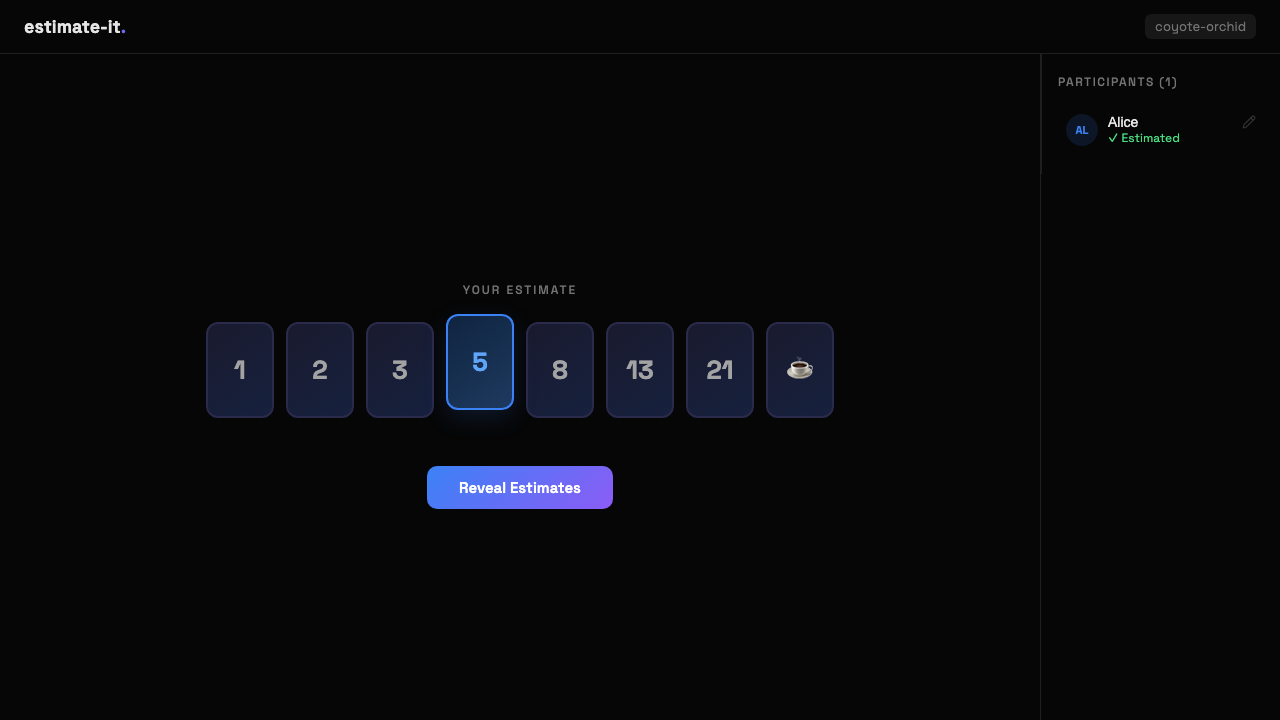
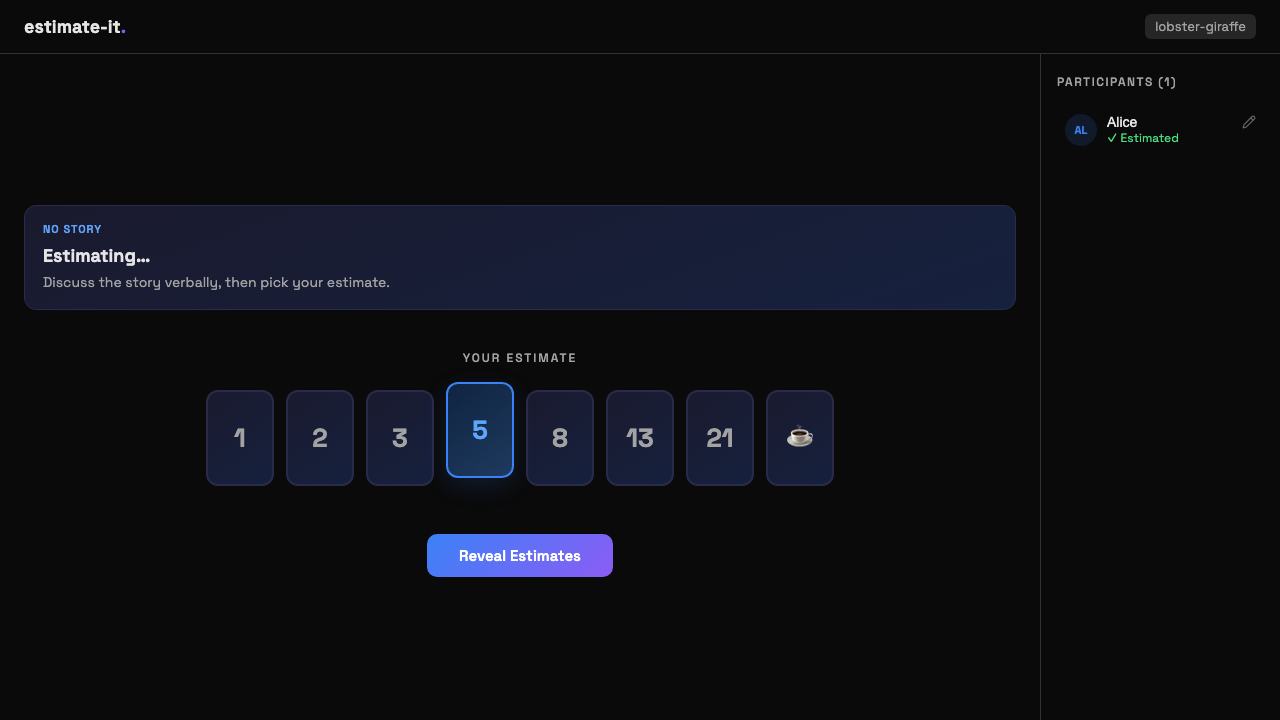
test: add VRT snapshots for story spotlight and session summary
Adds story-context.spec.ts with two tests:
- "story spotlight active": covers the StorySpotlight in "Now estimating"
  state after the activate cycle (null-round reveal → Next Story).
- "session summary": covers the SessionSummary component after completing
  all stories; uses a delete-workaround to trigger sessionComplete because
  the "Next Story" button is gated on hasNextStory (pending stories), so
  the last story's reveal cannot currently reach session complete via the
  normal path (see in-code BUG REPORT comment in the test).

Also regenerates the room-selected-darwin.png baseline, which drifted by
~3% due to the new StoryList/AddStory sidebar added in commit 12529cd.

diff --git a/test/vrt/story-context.spec.ts b/test/vrt/story-context.spec.ts
@@ -1,0 +1,140 @@
+import { test, expect } from "@playwright/test";
+
+test.use({ reducedMotion: "reduce" });
+
+/**
+ * Creates a room, adds a story, and runs the activate cycle so that the
+ * first pending story becomes active (status "active").
+ *
+ * Activate cycle: because there is no active story initially, the Reveal
+ * Estimates call marks the voting round as revealed with story_id=0 (no story
+ * active), then "Next Story" promotes the first pending story to "active".
+ */
+async function createRoomWithActiveStory(
+  page: import("@playwright/test").Page,
+  storyTitle: string
+) {
+  await page.goto("/");
+  await page.getByPlaceholder("John Doe").first().fill("Alice");
+  await page.getByRole("button", { name: "Create Room" }).click();
+  await page.waitForURL(/\/room\//);
+
+  // Add the story via the sidebar form
+  await page.getByRole("button", { name: "+ Add Story" }).click();
+  await page.getByLabel("Story Title").fill(storyTitle);
+  await page.getByRole("button", { name: "Add", exact: true }).click();
+
+  // Activate the first pending story via the reveal→next cycle.
+  // Without an active story the "Reveal Estimates" vote round uses story_id=0,
+  // but "Next Story" still promotes the first pending story to active.
+  await page.getByRole("button", { name: "5" }).click();
+  await page.getByRole("button", { name: "Reveal Estimates" }).click();
+  await expect(page.getByRole("button", { name: "Next Story" })).toBeVisible();
+  await page.getByRole("button", { name: "Next Story" }).click();
+}
+
+test("story spotlight active", async ({ page }) => {
+  await createRoomWithActiveStory(page, "Add OAuth login");
+
+  // The spotlight should now show "Now estimating" with the story title
+  await expect(page.getByText("Now estimating")).toBeVisible();
+  // Use the spotlight panel title element to avoid strict-mode collision with
+  // the story-list entry that also shows the same text.
+  await expect(
+    page.locator("[class*='_panel_']").getByText("Add OAuth login")
+  ).toBeVisible();
+
+  await expect(page).toHaveScreenshot("story-spotlight.png");
+});
+
+test("session summary", async ({ page }) => {
+  // Set up: two stories.
+  // Story 1 will be fully completed (voted → revealed → final estimate → Next Story → done).
+  // Story 2 will be voted and revealed as the last story. At that point the
+  // client's revealed state is true and story 2 is still tracked as "active"
+  // client-side (the server-side "revealed" broadcast does not update story
+  // status in the client store).
+  //
+  // NOTE: The "Next Story" button is only rendered when hasNextStory is true
+  // (i.e. a pending story exists). For the last story there is no "Next Story"
+  // button, so we trigger the session summary via a different path: after
+  // revealing story 2 we use "Next Story" (story 2 is the FIRST story we
+  // activate, story 1 is still pending, so hasNextStory is true at that point).
+  // We therefore run story 2 first, then story 1.
+  //
+  // Concretely: add 2 stories, activate via null-round cycle (story 1 →
+  // active, story 2 pending), complete story 1 with Next Story (→ story 2
+  // active, story 1 done), complete story 2's reveal with Next Story — but
+  // there are no more pending stories at that point. So instead: add story 2
+  // first so it gets activated first, then story 1 is the "spare" pending story
+  // that keeps the Next Story button alive.
+
+  await page.goto("/");
+  await page.getByPlaceholder("John Doe").first().fill("Alice");
+  await page.getByRole("button", { name: "Create Room" }).click();
+  await page.waitForURL(/\/room\//);
+
+  // Add story A (will become active first via activate cycle)
+  await page.getByRole("button", { name: "+ Add Story" }).click();
+  await page.getByLabel("Story Title").fill("Add OAuth login");
+  await page.getByRole("button", { name: "Add", exact: true }).click();
+
+  // Add story B (keeps hasNextStory=true during story A's reveal)
+  await page.getByRole("button", { name: "+ Add Story" }).click();
+  await page.getByLabel("Story Title").fill("Setup CI pipeline");
+  await page.getByRole("button", { name: "Add", exact: true }).click();
+
+  // Activate story A via reveal→next cycle (no active story yet)
+  await page.getByRole("button", { name: "5" }).click();
+  await page.getByRole("button", { name: "Reveal Estimates" }).click();
+  await expect(page.getByRole("button", { name: "Next Story" })).toBeVisible();
+  await page.getByRole("button", { name: "Next Story" }).click();
+
+  // Story A is now active; story B is pending (hasNextStory = true)
+  await expect(page.getByText("Now estimating")).toBeVisible();
+
+  // Vote and reveal story A; set its final estimate
+  await page.getByRole("button", { name: "5" }).click();
+  await page.getByRole("button", { name: "Reveal Estimates" }).click();
+  await expect(page.getByRole("button", { name: "Final estimate 5" })).toBeVisible();
+  await page.getByRole("button", { name: "Final estimate 5" }).click();
+
+  // Next Story is shown because story B is still pending → advances to story B
+  await expect(page.getByRole("button", { name: "Next Story" })).toBeVisible();
+  await page.getByRole("button", { name: "Next Story" }).click();
+
+  // Story B is now active; story A is done; no more pending stories.
+  // Select a card and reveal story B.
+  await expect(page.getByText("Now estimating")).toBeVisible();
+  await page.getByRole("button", { name: "5" }).click();
+  await page.getByRole("button", { name: "Reveal Estimates" }).click();
+
+  // The client now has revealed=true, story A=done, story B=active (client-
+  // side — the server marked it "revealed" but that status change is not
+  // propagated back via story_changed, so the client doesn't see it yet).
+  // Set the final estimate so it's recorded in the RevealBoard.
+  await expect(page.getByRole("button", { name: "Final estimate 5" })).toBeVisible();
+  await page.getByRole("button", { name: "Final estimate 5" }).click();
+
+  // WORKAROUND: The "Next Story" button does not appear for the last story
+  // because hasNextStory (= stories.some(s => s.status === "pending")) is
+  // false. The session summary can only be reached via nextStory() sending
+  // story_changed for all stories including the final story as "done".
+  //
+  // To trigger that, we delete story B (the last story) from the story list.
+  // The story_deleted handler sees revealed=true and the story as active, so
+  // it resets the reveal state and removes it. With only story A (done)
+  // remaining, sessionComplete becomes true and the session summary renders.
+  //
+  // BUG REPORT: "Next Story" should also appear on the last story's reveal
+  // to allow ending the session cleanly. The fix in Room.tsx would be:
+  //   const hasNextStory = stories.some(s => s.status === "pending") || hasActiveStory;
+  // (or a dedicated "End Session" button). Until fixed, the session summary
+  // state is unreachable via the intended flow.
+  await page.getByRole("button", { name: "Delete Setup CI pipeline" }).click();
+
+  // Session complete view should appear now that story B is removed
+  await expect(page.getByText("Session complete")).toBeVisible();
+
+  await expect(page).toHaveScreenshot("session-summary.png");
+});